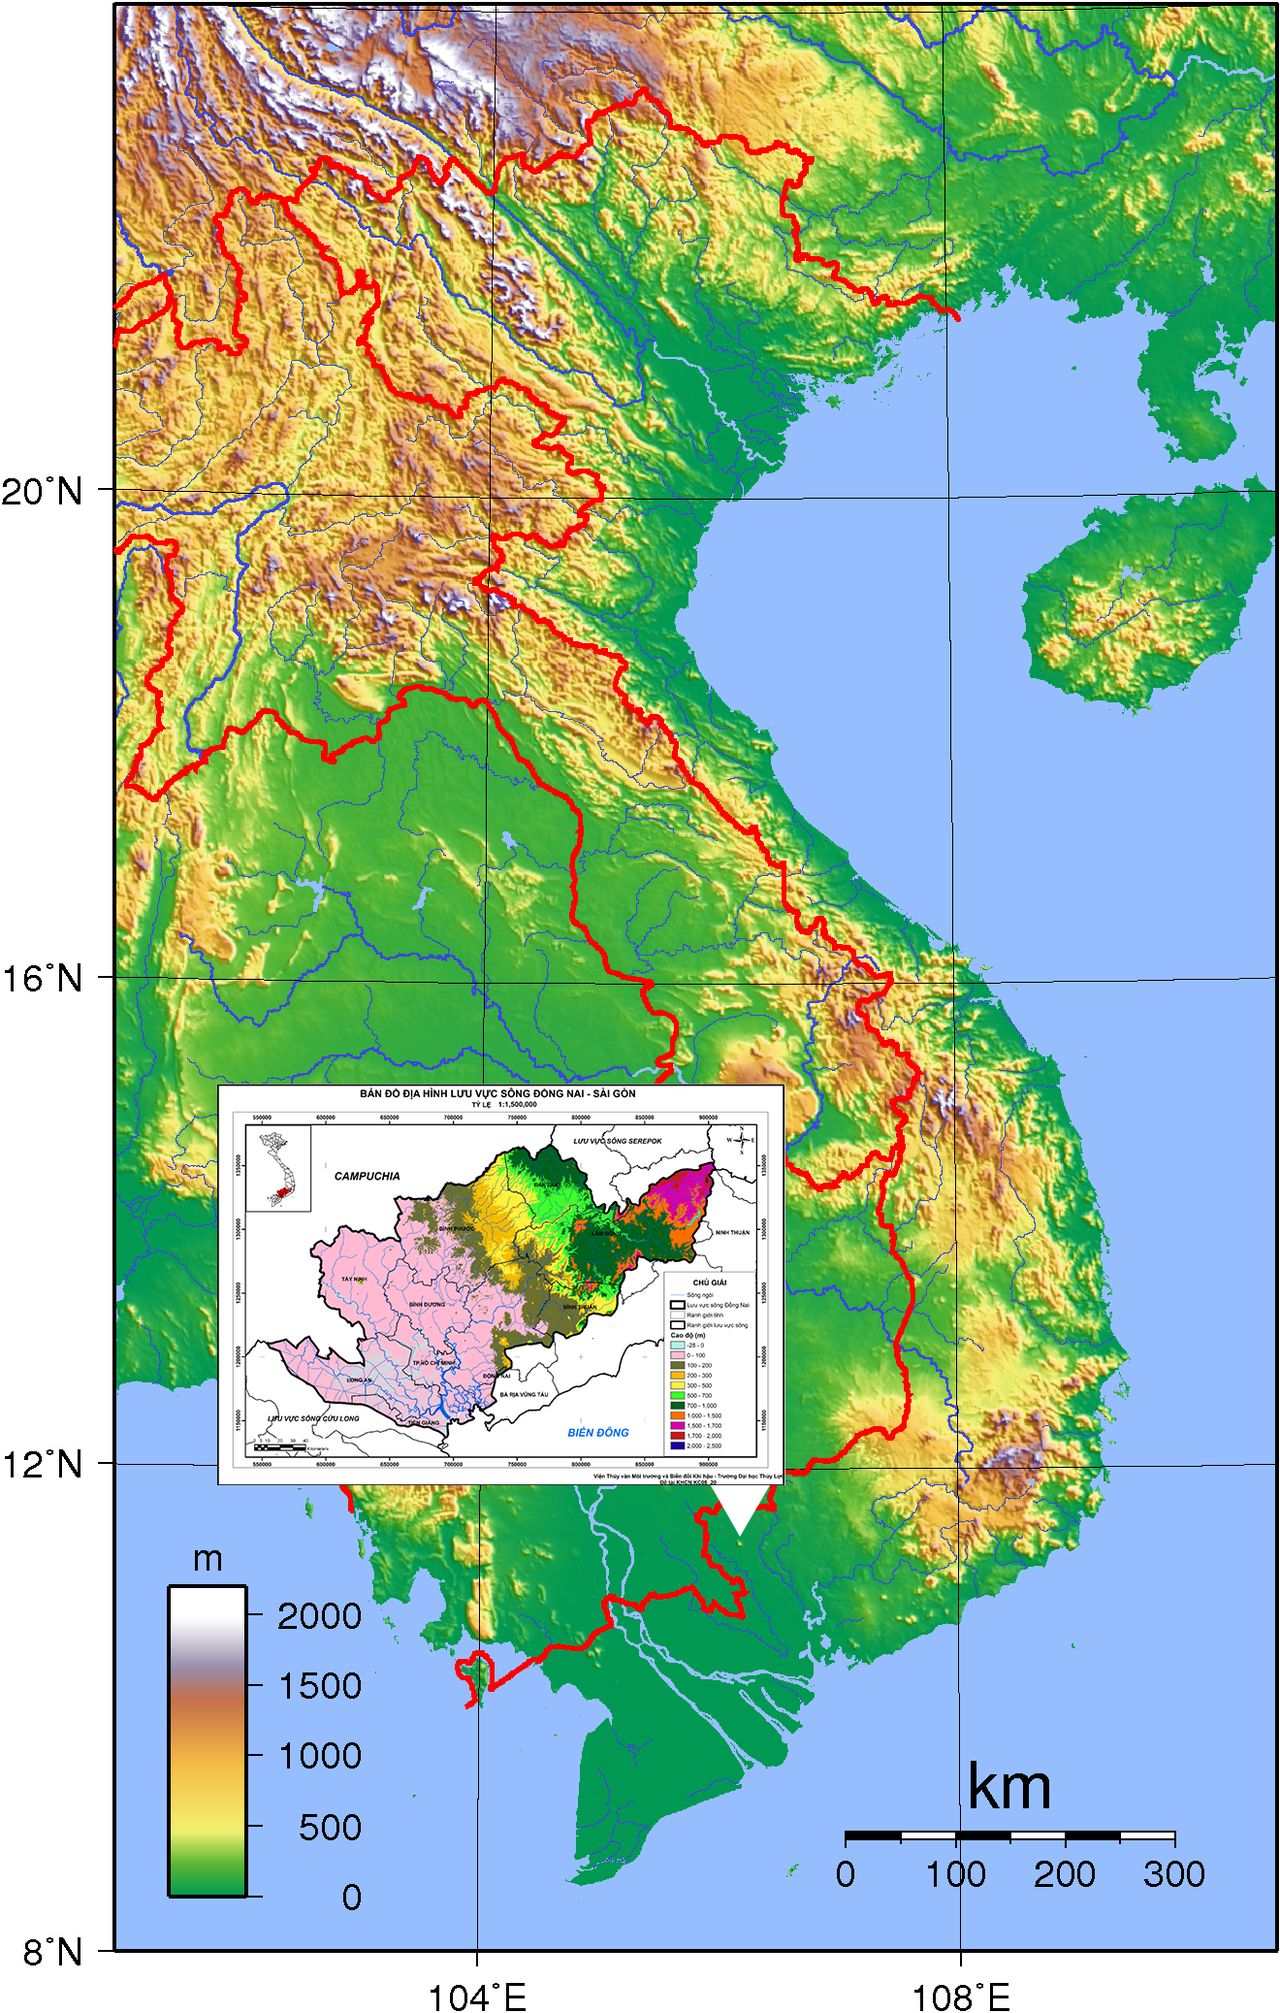
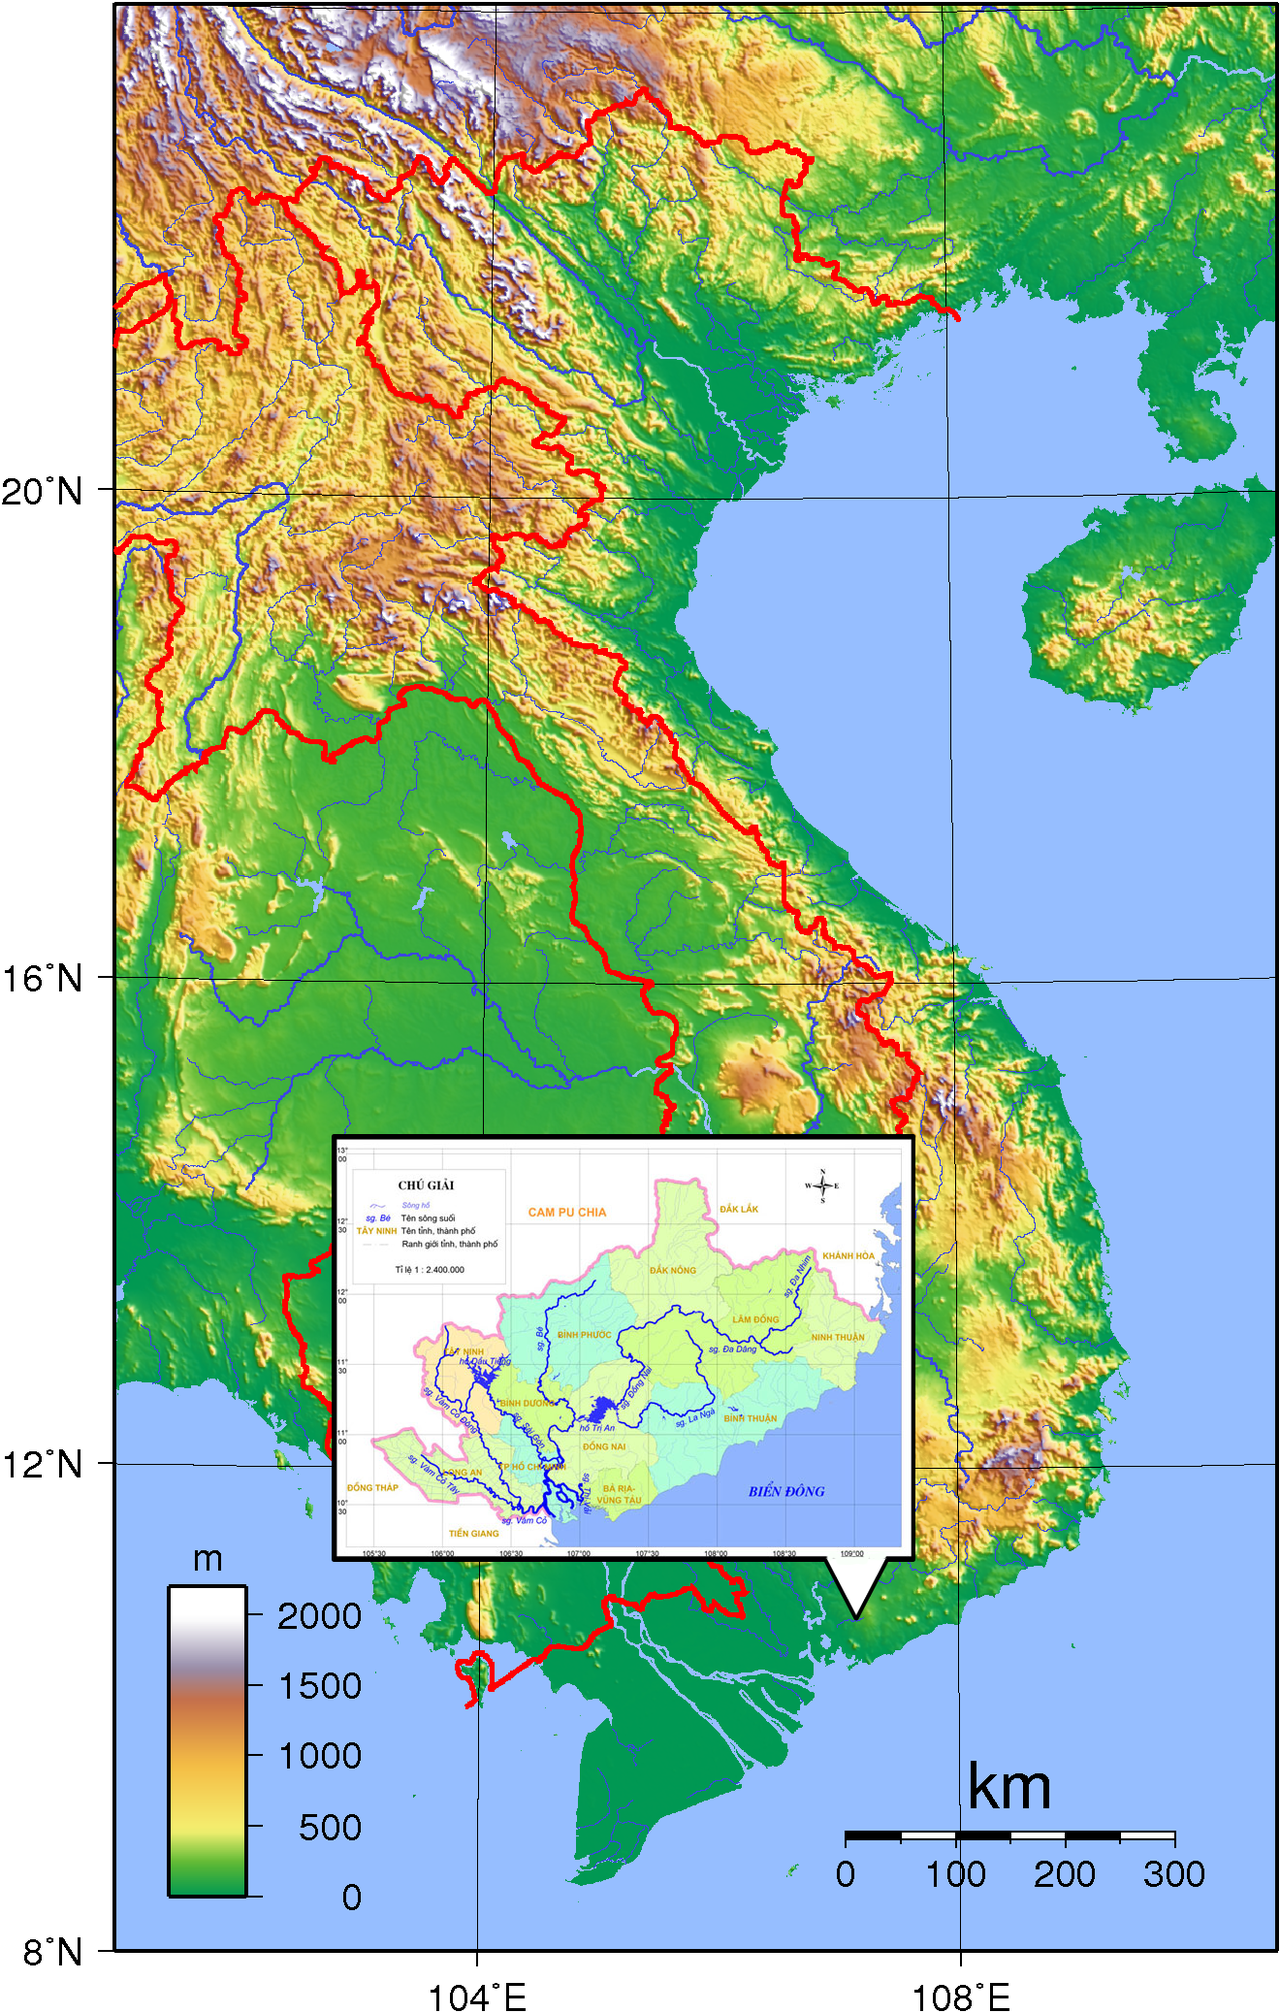
Update pages of dac-diem-tu-nhien

Changed region(s): [[0.1553, 0.5243, 0.7144, 0.8019]]

diff --git a/public/css/styles.css b/public/css/styles.css
@@ -261,7 +261,7 @@ main, .content { position: relative; }
 .scheme-product .list-scheme-product li a { color: #d25426}
 
 .main-content { display: flex; }
-.main-content .description, .main-content .illustration { width: 50%; }
+.main-content .description, .main-content .illustration, .img-location { width: 50%; }
 
 /* Vi tri dia ly & Dac diem dia hinh */
 .geographical-location .img-location,
@@ -616,7 +616,7 @@ footer .copyright {
     /* Geographical Location - Vi tri dia ly*/
 
     .geographical-location .img-location img,
-    .topographic-characteristics .img-location img { width: 80%; }
+    .img-location img { width: 80%; }
 
     .geographical-location .content,
     .topographic-characteristics .content {

diff --git a/resources/views/pages/khu-vuc-nghien-cuu/tham-phu-thuc-vat.blade.php b/resources/views/pages/khu-vuc-nghien-cuu/tham-phu-thuc-vat.blade.php
@@ -5,21 +5,23 @@
 <div class="content floral">
     <h3 class="title"><i class="fa fa-circle" aria-hidden="true"></i>&nbsp;Thảm phủ thực vật rừng và hệ thực vật</h3>
     <div class="content">
-        <div class="file-name">
-        
+        <div class="main-content">
+            <div class="description">
+                <div class="file-action">
+                    <a href="{{ asset('files/4-tham-phu-thuc-vat-rung-va-he-thuc-vat.docx') }}"><i class="fa fa-download" aria-hidden="true"></i>&nbsp;Tải xuống</a>
+                    <a href="#"><i class="fa fa-search-plus" aria-hidden="true"></i>&nbsp;Xem trước</a>
+                </div>
+                <p class="text-justify">Nằm trong vùng nhiệt đới gió mùa, địa hình biến đổi lớn nên thảm thực vật, rừng ở lưu vực sông Đồng Nai khá đa dạng. <br>
+                <p class="text-justify">Thượng nguồn lưu vực là vùng núi cao trên 1.500 m so với mực nước biển, thuộc  cao  nguyên  Liangbiang có  nhiều  đặc  trưng của  rừng  á  ôn  đới,  thảm thực  vật chủ yếu là rừng thông.</p>
+                <p class="text-justify">Từ  cao  trình  1.500  m trở  xuống có  thảm thực  vật,  rừng  mang đầy  đủ  đặc trưng của rừng nhiệt đới, thảm thực vật rừng dày với nhiều loại cây và dây leo phong phú và cũng là nơi cư trú của nhiều loại động vật. </p>
+                <p class="text-justify">Theo  số  liệu  thống  kê  năm 2005, đất có rừng  trên  lưu vực sông Đồng Nai khoảng 1.969.942 ha (Diện tích rừng của 11 tỉnh liên quan đến lưu vực sông Đồng Nai, không kể phần đất thuộc Cam Pu Chia), chiếm hơn 35% tổng diện tích đất tự nhiên, phân bố tập trung ở thượng nguồn Đa Dung và Đa Nhim, trung lưu sông Đồng Nai (từ tuyến Đồng Nai 3 đến Lộc Bắc, thượng nguồn sông Đa Tẻ và Đambri), qua đèo Bảo Lộc đến trung lưu sông La Ngà, sông Đồng Nai (Vườn Quốc gia Cát Tiên có quy mô 73.878ha;  phần  thuộc  tỉnh  Đồng  Nai:  38.100ha,  Lâm  Đồng:  30.635ha  và  Bình Phước: 5.143ha), và cửa sông Đồng Nai (rừng ngập mặn Cần Giờ 75.740 ha trong đó có 4.721 ha vùng lõi).</p>
+                <p class="text-justify">Đây là những khu vực có thảm thực vật tốt với hệ sinh thái động thực vật còn phong phú. </p>
+            </div>
+            <div class="img-location text-center">
+                <img src="{{ asset('images/tham-thuc-vat.png')  }}" alt="dac-diem-dia-hinh"><br>
+                <i class="mt-2 d-block">Bản đồ thảm thực vật</i>
+            </div>
         </div>
-        <div class="file-action">
-            <a href="{{ asset('files/4-tham-phu-thuc-vat-rung-va-he-thuc-vat.docx') }}"><i class="fa fa-download" aria-hidden="true"></i>&nbsp;Tải xuống</a>
-            <a href="#"><i class="fa fa-search-plus" aria-hidden="true"></i>&nbsp;Xem trước</a>
-        </div>
-    </div>
-    <div class="excerpt">
-        <p>Nằm trong vùng nhiệt đới gió mùa, địa hình biến đổi lớn nên thảm thực vật, rừng ở lưu vực sông Đồng Nai khá đa dạng.</p>
-        <ul>
-            <li>Thượng nguồn lưu vực là vùng núi cao trên 1.500 m so với mực nước biển, thuộc  cao  nguyên  Liangbiang có  nhiều  đặc  trưng của  rừng  á  ôn  đới,  thảm thực  vật chủ yếu là rừng thông.</li>
-            <li>Từ  cao  trình  1.500  m trở  xuống có  thảm thực  vật,  rừng  mang đầy  đủ  đặc trưng của rừng nhiệt đới, thảm thực vật rừng dày với nhiều loại cây và dây leo phong phú và cũng là nơi cư trú của nhiều loại động vật.</li>
-        </ul>
-        <p>Theo  số  liệu  thống  kê  năm 2005, đất có rừng  trên  lưu vực sông Đồng Nai khoảng 1.969.942 ha (Diện tích rừng của 11 tỉnh liên quan đến lưu vực sông Đồng Nai, không kể phần đất thuộc Cam Pu Chia), chiếm hơn 35% tổng diện tích đất tự nhiên, phân bố tập trung ở thượng nguồn Đa Dung và Đa Nhim, trung lưu sông Đồng Nai (từ tuyến Đồng Nai 3 đến Lộc Bắc, thượng nguồn sông Đa Tẻ và Đambri), qua đèo Bảo Lộc đến trung lưu sông La Ngà, sông Đồng Nai (Vườn Quốc gia Cát Tiên có quy mô 73.878ha;  phần  thuộc  tỉnh  Đồng  Nai:  38.100ha,  Lâm  Đồng:  30.635ha  và  Bình Phước: 5.143ha), và cửa sông Đồng Nai (rừng ngập mặn Cần Giờ 75.740 ha trong đó có 4.721 ha vùng lõi). Đây là những khu vực có thảm thực vật tốt với hệ sinh thái động thực vật còn phong phú.</p>
     </div>
 </div>
 @endsection('content')

diff --git a/resources/views/pages/khu-vuc-nghien-cuu/he-thong-song-ngoi.blade.php b/resources/views/pages/khu-vuc-nghien-cuu/he-thong-song-ngoi.blade.php
@@ -5,12 +5,26 @@
 <div class="content river-system">
     <h3 class="title"><i class="fa fa-circle" aria-hidden="true"></i>&nbsp;Hệ thống sông ngòi</h3>
     <div class="content">
-        <div class="file-name">
-        
-        </div>
-        <div class="file-action">
-            <a href="{{ asset('files/5-he-thong-song-ngoi.docx') }}"><i class="fa fa-download" aria-hidden="true"></i>&nbsp;Tải xuống</a>
-            <a href="#"><i class="fa fa-search-plus" aria-hidden="true"></i>&nbsp;Xem trước</a>
+        <div class="main-content">
+            <div class="description">
+                <div class="file-action">
+                    <a href="{{ asset('files/5-he-thong-song-ngoi.docx') }}"><i class="fa fa-download" aria-hidden="true"></i>&nbsp;Tải xuống</a>
+                    <a href="#"><i class="fa fa-search-plus" aria-hidden="true"></i>&nbsp;Xem trước</a>
+                </div>
+                <p class="text-justify">Hệ thống sông Đồng Nai là hệ thống sông nội địa lớn nhất nước ta, gồm dòng chính sông Đồng Nai và các phụ lưu chính là sông La Ngà, Bé, Sài Gòn và Vàm Cỏ (bao gồm Vàm Cỏ Đông và Vàm Cỏ Tây).</p>
+                <p class="text-justify">- Sông Đồng Nai bắt nguồn từ cao nguyên Lang Biang (Đà Lạt) với độ cao 1.777m, diện tích lưu vực đến Trị An và Nhà Bè tương ứng là 14.800 km2 và 28.200 km2. </p>
+                <p class="text-justify">- Sông Sài Gòn được hợp thành từ hai nhánh Sài Gòn và Sanh Đôi, bắt nguồn từ các vùng đồi ở Lộc Ninh và ven biên giới Việt Nam - Cam Pu Chia, với độ cao khoảng 100-150 m. </p>
+                <p class="text-justify">- Sông Nhà Bè: Sông Đồng Nai hợp lưu với sông Sài Gòn thành sông Nhà Bè, cách trung tâm thành phố khoảng 5 km về phía Đông Nam. </p>
+                <p class="text-justify">- Sông La Ngà là phụ lưu nằm ở bờ trái dòng chính Đồng Nai, bắt nguồn từ hai nhánh Da R’gna và Da Riam từ vùng núi cao 1.500-1.600 m của Di Linh và 1.300 m của Bảo Lâm, chảy qua rìa phía Tây tỉnh Bình Thuận rồi đổ vào dòng chính sông Đồng Nai tại vị trí cách thác Trị An 38 km về phía thượng lưu. </p>
+                <p class="text-justify">- Sông Vàm Cỏ được hình thành bởi hai sông Vàm Cỏ Đông và Vàm Cỏ Tây, bắt nguồn từ vùng đồi thấp ở Căm Pu Chia, có cao độ khoảng 20 m đầu nguồn Vàm Cỏ Đông và 5 m đầu nguồn Vàm Cỏ Tây. </p>
+                <p class="text-justify">- Sông Vàm Cỏ Đông có chiều dài 220 km, diện tích lưu vực đến Gò Dầu Hạ là 5.650 km2 và 6.300 km2 tại hợp lưu với Vàm Cỏ Tây, chảy theo hướng Tây Bắc-Đông Nam, độ dốc trung bình lòng sông 0,0002, lòng sông sâu, thuỷ triều ảnh hưởng đến tận biên giới Việt Nam-Căm Pu Chia.</p>
+                <p class="text-justify">- Sông Vàm Cỏ Tây có chiều dài 196 km, độ dốc trung bình lòng sông 0,00012, diện tích lưu vực đến hợp lưu với Vàm Cỏ Đông khoảng 6.000 km2, sông chảy qua vùng đồng bằng tỉnh Long An, chịu tác động của thuỷ triều</p>
+                <p class="text-justify">- Ngoài ra, còn có nhiều sông, suối với lưu vực độc lập chảy trực tiếp ra dòng chính sông Đồng Nai như Dak R’Tih (Dak Nông), Da Tẻh, Dak Quyeon (Lâm Đồng), sông Lá Buông (Đồng Nai)... </p>
+            </div>
+            <div class="img-location text-center">
+                <img src="{{ asset('images/he-thong-song-ngoi.png')  }}" alt="dac-diem-dia-hinh"><br>
+                <i class="mt-2 d-block">Bản đồ hệ thống sông ngòi</i>
+            </div>
         </div>
     </div>
 </div>

diff --git a/resources/views/pages/khu-vuc-nghien-cuu/tho-nhuong.blade.php b/resources/views/pages/khu-vuc-nghien-cuu/tho-nhuong.blade.php
@@ -5,17 +5,24 @@
 <div class="content land">
     <h3 class="title"><i class="fa fa-circle" aria-hidden="true"></i>&nbsp;Thổ nhưỡng</h3>
     <div class="content">
-        <div class="file-name">
-            
+        <div class="main-content">
+            <div class="description">
+                <div class="file-action">
+                    <a href="{{ asset('files/3-tho-nhuong.docx') }}"><i class="fa fa-download" aria-hidden="true"></i>&nbsp;Tải xuống</a>
+                    <a href="#"><i class="fa fa-search-plus" aria-hidden="true"></i>&nbsp;Xem trước</a>
+                </div>
+                <p class="text-justify">Đặc điểm thổ nhưỡng lưu vực sông Đồng Nai nằm trong lãnh thổ Tây Nguyên thay đổi tuỳ theo địa hình và nham thạch gốc. Do nằm trong vùng có địa hình và địa chất biến đổi phức tạp vì vậy thổ nhưỡng trên lưu vực cũng rất đa dạng, bao gồm 5 nhóm đất chính: Đất đen, Đất đỏ vàng, Đất mùn trên núi, Đất dốc tụ, Đất xói mòn trơ sỏi đá.</p>
+                <p class="text-justify">Trong đó, nhóm đất đỏ vàng có diện tích lớn nhất gần 3 triệu ha, chiếm trên 51% diện tích tự nhiên, kế đến là nhóm đất xám khoảng 1,2 triệu ha, chiếm gần 23% diện tích tự nhiên, còn các đất khác chiếm khoảng 19%. Các loại đất có vấn đề (đất cát,đất mặn, đất phèn, đất trơ sỏi đá) chiếm gần 10% diện tích tự nhiên. </p>
+
+                <p class="text-justify">Cao độ địa hình thấp dần theo 3 hướng chính là Bắc-Nam (thượng lưu xuống hạ lưu dòng chính Đồng Nai), Đông-Tây (dòng chính Đồng Nai qua sông Bé, sông Sài Gòn và Vàm Cỏ) và Tây Bắc-Đông Nam (vùng ven biển) bao gồm nhiều loại: địa hình vùng núi, trung du, đồng bằng, và vùng ven biển. </p>
+                
+            </div>
+            <div class="img-location text-center">
+                <img src="{{ asset('images/tho-nhuong.png')  }}" alt="tho-nhuong"><br>
+                <i>Bản đồ thổ nhưỡng Việt Nam</i>
+            </div>
         </div>
-        <div class="file-action">
-            <a href="{{ asset('files/3-tho-nhuong.docx') }}"><i class="fa fa-download" aria-hidden="true"></i>&nbsp;Tải xuống</a>
-            <a href="#"><i class="fa fa-search-plus" aria-hidden="true"></i>&nbsp;Xem trước</a>
-        </div>
-    </div>
-    <div class="excerpt">
-        <p>Đặc điểm thổ nhưỡng lưu vực sông Đồng Nai nằm trong lãnh thổ Tây Nguyên thay đổi tuỳ theo địa hình và nham thạch gốc. Do nằm trong vùng có địa hình và địa chất biến đổi phức tạp vì vậy thổ nhưỡng trên lưu vực cũng rất đa dạng, bao gồm 5 nhóm đất chính: Đất đen, Đất đỏ vàng, Đất mùn trên núi, Đất dốc tụ, Đất xói mòn trơ sỏi đá.</p>
-        <p>Trong đó, nhóm đất đỏ vàng có diện tích lớn nhất gần 3 triệu ha, chiếm trên 51% diện tích tự nhiên, kế đến là nhóm đất xám khoảng 1,2 triệu ha, chiếm gần 23% diện tích tự nhiên, còn các đất khác chiếm khoảng 19%. Các loại đất có vấn đề (đất cát,đất mặn, đất phèn, đất trơ sỏi đá) chiếm gần 10% diện tích tự nhiên.</p>
+        
     </div>
 </div>
 @endsection('content')

diff --git a/resources/views/pages/khu-vuc-nghien-cuu/dac-diem-dia-hinh.blade.php b/resources/views/pages/khu-vuc-nghien-cuu/dac-diem-dia-hinh.blade.php
@@ -5,17 +5,23 @@
 <div class="content topographic-characteristics">
     <h3 class="title"><i class="fa fa-circle" aria-hidden="true"></i>&nbsp;Đặc điểm địa hình</h3>
     <div class="content">
-        <div class="file-name">
-            
-        </div>
-        <div class="file-action">
-            <a href="{{ asset('files/2-dac-diem-dia-hinh.docx') }}"><i class="fa fa-download" aria-hidden="true"></i>&nbsp;Tải xuống</a>
-            <a href="#"><i class="fa fa-search-plus" aria-hidden="true"></i>&nbsp;Xem trước</a>
+        <div class="main-content">
+            <div class="description">
+                <div class="file-action">
+                    <a href="{{ asset('files/2-dac-diem-dia-hinh.docx') }}"><i class="fa fa-download" aria-hidden="true"></i>&nbsp;Tải xuống</a>
+                    <a href="#"><i class="fa fa-search-plus" aria-hidden="true"></i>&nbsp;Xem trước</a>
+                </div>
+                <p class="text-justify">Lưu vực sông Đồng Nai có hình nan quạt kéo dài từ cuối sườn Tây của dãy Trường Sơn thuộc Nam Trung Bộ, qua hết vùng Đông Nam Bộ đến giáp vùng Đồng Tháp Mười thuộc Đồng bằng sông Cửu Long. </p>
+                <p class="text-justify">Cao độ địa hình thấp dần theo 3 hướng chính là Bắc-Nam (thượng lưu xuống hạ lưu dòng chính Đồng Nai), Đông-Tây (dòng chính Đồng Nai qua sông Bé, sông Sài Gòn và Vàm Cỏ) và Tây Bắc-Đông Nam (vùng ven biển) bao gồm nhiều loại: địa hình vùng núi, trung du, đồng bằng, và vùng ven biển. </p>
+                <p class="text-justify">Địa hình vùng núi phân bố chủ yếu ở thượng và trung lưu các dòng chính có diện tích chiếm gần 50% diện tích toàn lưu vực và có cao độ mặt đất từ vài trăm mét đến trên 2.000 m so với mực nước biển. Dạng địa hình này phù hợp với cây công nghiệp dài ngày và rau màu. Đây cũng là vùng có diện tích đất lâm nghiệp chiếm tỷ trọng lớn trong lưu vực và là nơi thuận lợi bố trí các công trình khai thác tổng hợp (thuỷ năng và cấp nước) quy mô lớn. </p> 
+                <p class="text-justify">Lưu vực sông Đồng Nai là một trong những lưu vực sông lớn của Việt Nam và giữ vai trò vô cùng quan trọng trong phát triển kinh tế - xã hội của đất nước.</p><p> Sông Đồng Nai bắt nguồn từ Cao nguyên Liăng Biăng (Lâm Đồng) chảy qua vùng núi cao nguyên đến hồ Trị An, sau đó chảy ngang qua thành phố Biên Hòa, về thành phố Hồ Chí Minh, đến ngã ba Mũi Đèn Đỏ và hợp lưu với sông Sài Gòn.</p>
+            </div>
+            <div class="img-location text-center">
+                <img src="{{ asset('images/dac-diem-dia-hinh.png')  }}" alt="dac-diem-dia-hinh"><br>
+                <i class="mt-2 d-block">Bản đồ địa hình lưu vực sông Đồng Nai - Sài Gòn</i>
+            </div>
         </div>
     </div>
-    <div class="img-location">
-        <img src="{{ asset('images/dac-diem-dia-hinh-song-dong-nai.png')  }}" alt="dac-diem-dia-hinh-song-dong-nai"><br>
-        <i>Hình 1.40: Bản đồ địa hình lưu vực sông Đồng Nai - Sài Gòn</i>
-    </div>
+    
 </div>
 @endsection('content')

diff --git a/resources/views/pages/khu-vuc-nghien-cuu/vi-tri-dia-ly.blade.php b/resources/views/pages/khu-vuc-nghien-cuu/vi-tri-dia-ly.blade.php
@@ -16,7 +16,6 @@
             </div>
             <div class="illustration img-location">
                 <img src="{{ asset('images/vi-tri-dia-ly.png')  }}" alt="vi-tri-dia-ly-song-dong-nai"><br>
-                <i>Hình 1.38: Lưu Vực Sông Đồng Nai (DNRB)</i>
             </div>
         </div>
     </div>
